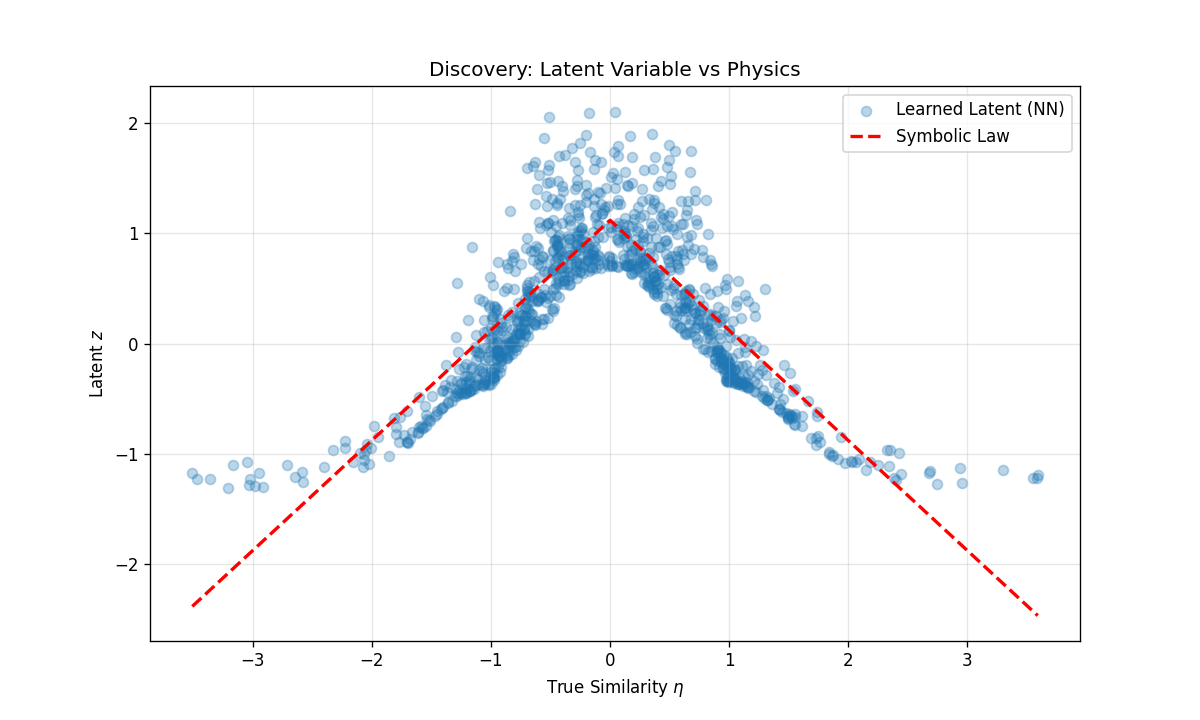
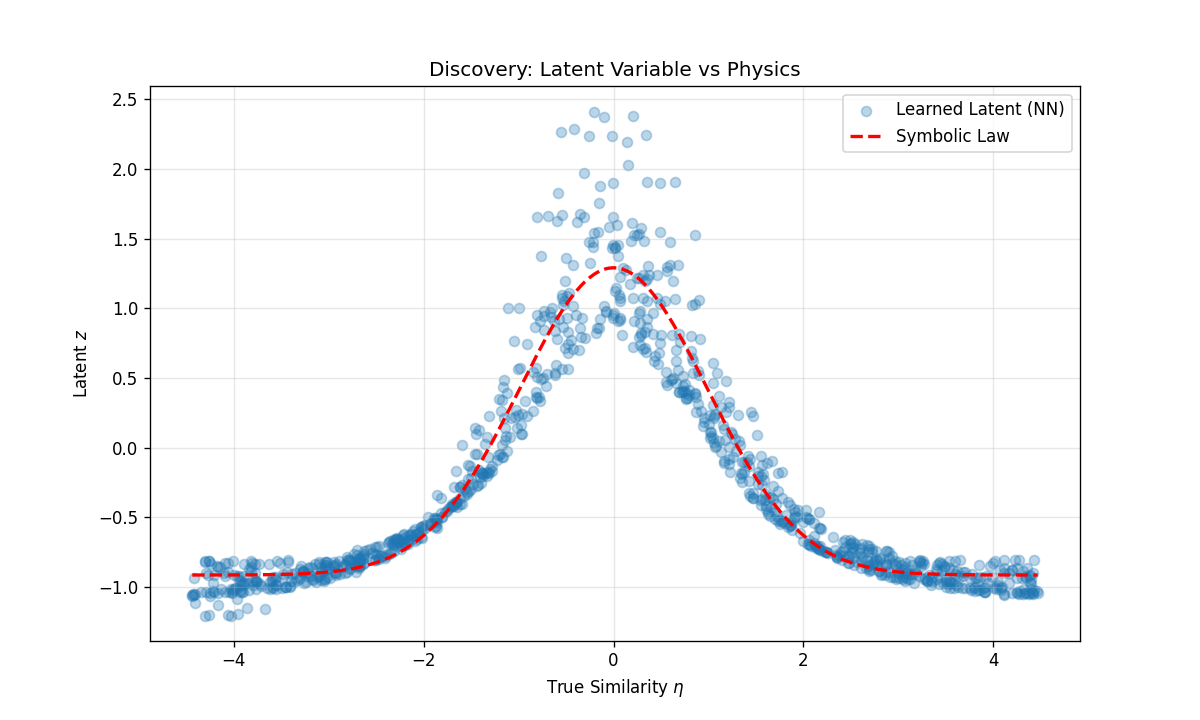
modified the heat diffusion example

diff --git a/examples/heat_diffusion_discovery.py b/examples/heat_diffusion_discovery.py
@@ -49,7 +49,7 @@ def symbolic_verification(eta, z):
     model = PySRRegressor(
         niterations=30,
         binary_operators=["+", "*", "-", "/"],
-        unary_operators=["square", "sqrt", "exp"],
+        unary_operators=["square", "exp"],
         model_selection="best",
         verbosity=0,
         temp_equation_file=None
@@ -76,8 +76,14 @@ def main():
     
     # Data
     N = 1000
-    x = torch.rand(N, 1) * 4 - 2   
-    t = torch.rand(N_SAMPLES := N, 1) * 1.9 + 0.1 
+
+    t = torch.rand(N_SAMPLES := N, 1) * 1.9 + 0.1
+
+    eta_max = 2.0 / np.sqrt(2.0 * 0.1)
+    eta_sampled = (torch.rand(N, 1) * 2.0 - 1.0) * eta_max
+
+    x = eta_sampled * torch.sqrt(2.0 * t)
+
     u_true = heat_source_solution(x, t, alpha=0.5)
     u_noisy = u_true + torch.randn_like(u_true) * 0.02
     X_train = torch.cat([x, t], dim=1)
@@ -101,7 +107,8 @@ def main():
     with torch.no_grad():
         _, _, z_pred = model(X_train)
     
-    eta = (x / torch.sqrt(2 * t)).numpy().flatten()
+    # We sampled eta directly above, so reuse that (numeric equality holds)
+    eta = eta_sampled.numpy().flatten()
     z = z_pred.numpy().flatten()
     
     # Symbolic Regression Step
